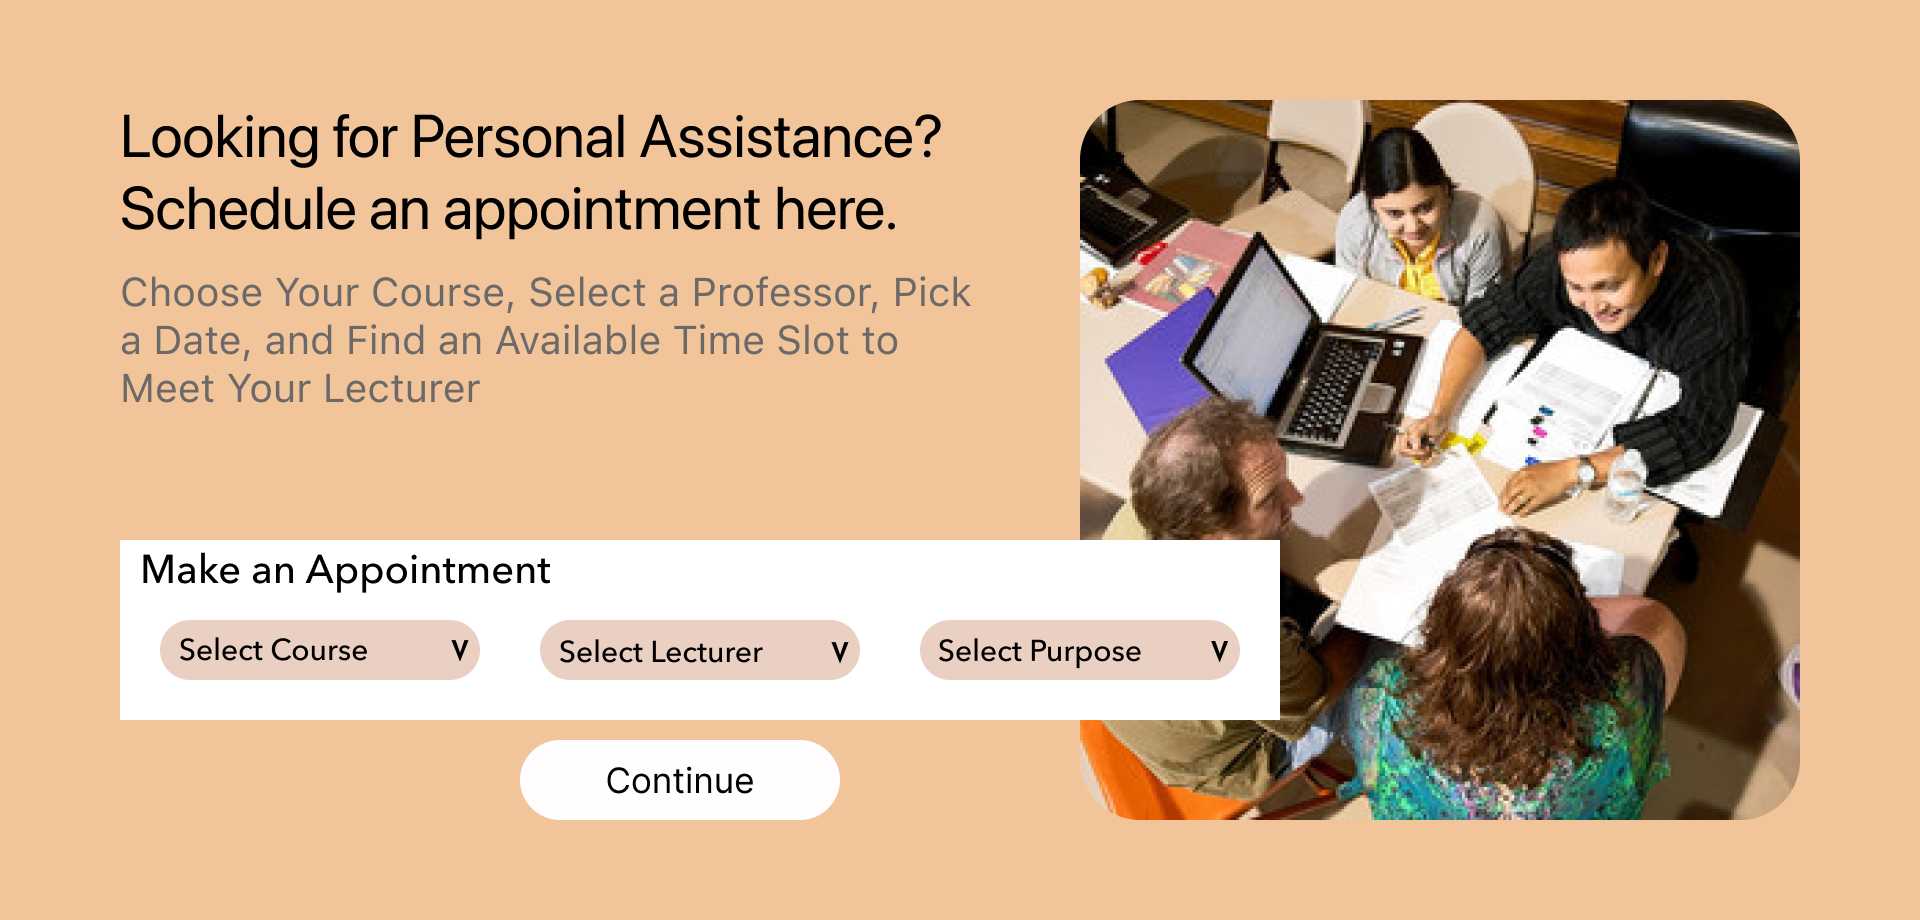
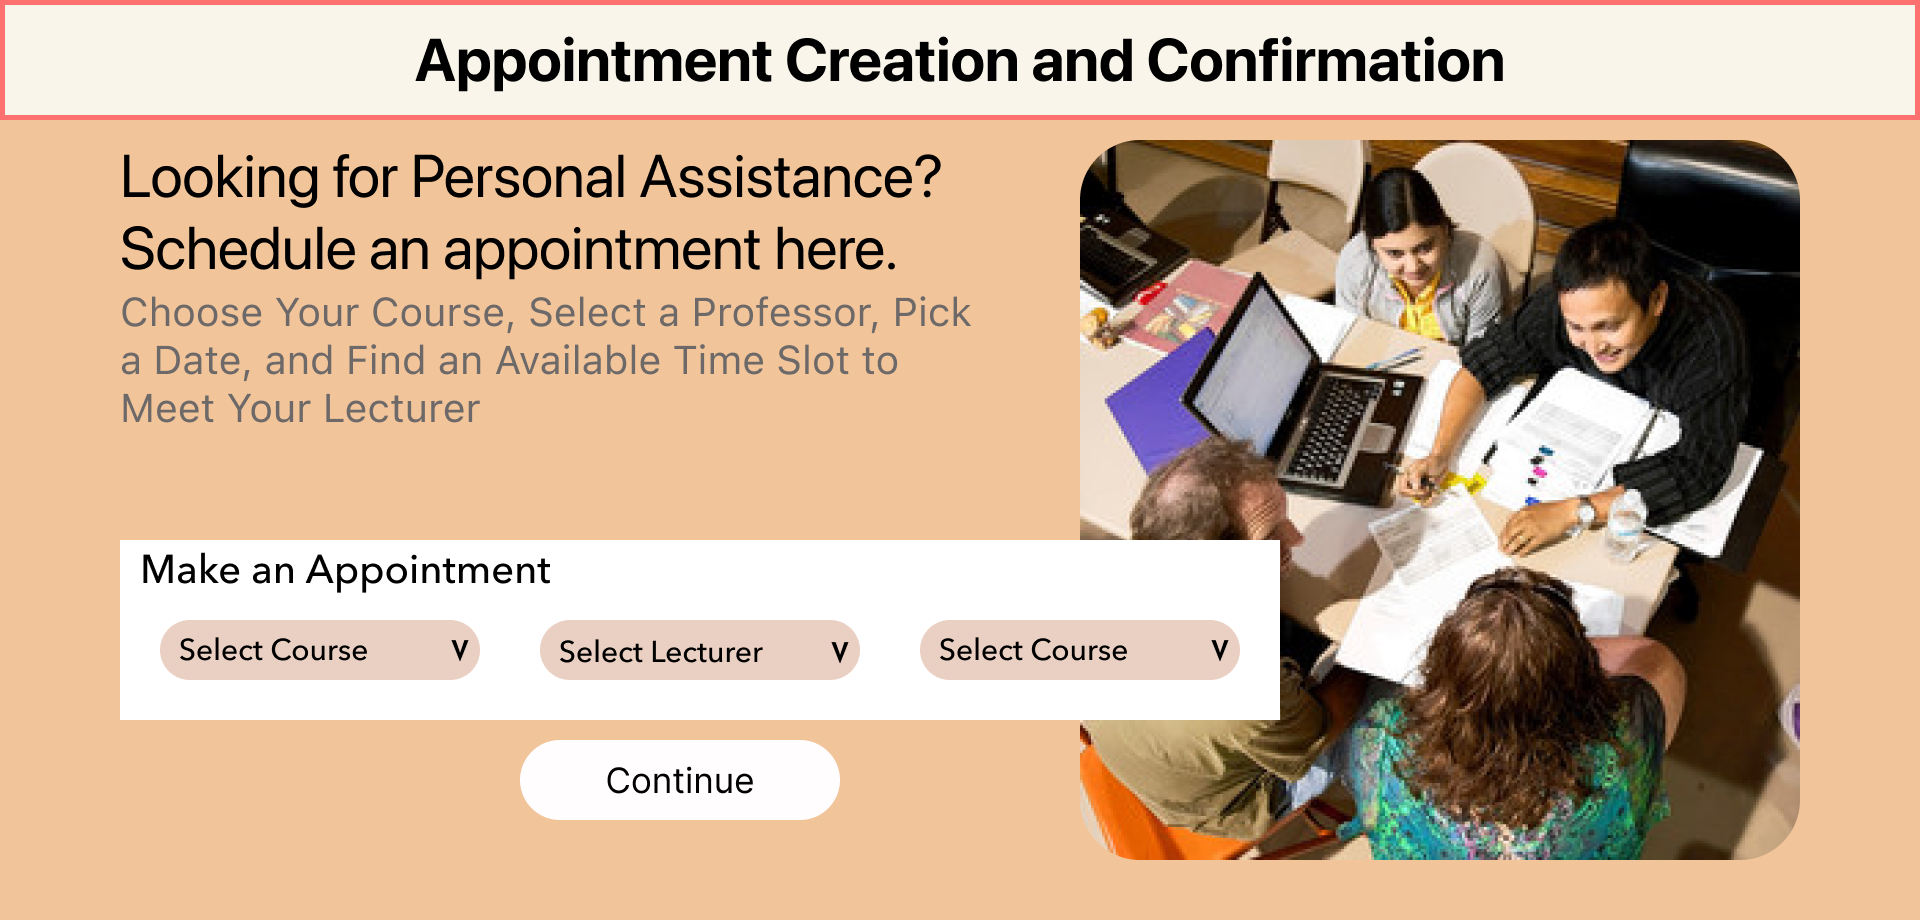
setting up appointments

diff --git a/views/appointmentsview.py b/views/appointmentsview.py
@@ -62,6 +62,10 @@ class AppointmentsView(Canvas):
             root=self, xpos=0, ypos=0, framewidth=1920, frameheight=920,
             classname="appointmentsmanage",
         )
+        self.apptCreateFrame = self.controller.frameCreator(
+            xpos=0, ypos=120, framewidth=1920, frameheight=800,
+            root=self.creationFrame, classname="apptcreateframe",
+        )
 
     def createElements(self):
         self.staticImgLabels = [
@@ -72,16 +76,18 @@ class AppointmentsView(Canvas):
             (r"Assets\AppointmentsView\appointmentcreationbg.png",
              0, 0, "appcreationbg", self.creationFrame),
             (r"Assets\AppointmentsView\appmanagebg.png",
-                0, 0, "appmanagebg", self.viewFrame),
+             0, 0, "appmanagebg", self.viewFrame),
+            (r"Assets\AppointmentsView\apptcreationframebg.png",
+             0, 0, "apptcreationframebg", self.apptCreateFrame),
         ]
         self.staticBtns = [
             (r"Assets\AppointmentsView\Create Appointment.png", 60, 600, "createappointmentbtn", self,
              lambda: self.loadAppCreation()),
             (r"Assets\AppointmentsView\manageappointments.png", 720, 600, "manageappointmentsbtn", self,
              lambda: self.loadAppView()),
-            (r"Assets\My Courses\exitbutton.png", 1840, 0, "appcreateexitbtn", self.creationFrame,
+            (r"Assets\My Courses\exitbutton.png", 1820, 20, "appcreateexitbtn", self.creationFrame,
              lambda: self.unloadAppCreation()),
-            (r"Assets\My Courses\exitbutton.png", 1840, 0, "appviewexitbtn", self.viewFrame,
+            (r"Assets\My Courses\exitbutton.png", 1820, 20, "appviewexitbtn", self.viewFrame,
              lambda: self.unloadAppView()),
         ]
         self.controller.settingsUnpacker(self.staticImgLabels, "label")
@@ -215,7 +221,7 @@ class AppointmentsView(Canvas):
     def loadLecturerMenuBtns(self, modCode):
         for widgetname, widget in self.creationFrame.children.items():
             if not widgetname.startswith("!la"):
-                if widgetname in [""]:
+                if widgetname in ["lecturersaptmenuhostfr", "timeslotmenuhostfr"]:
                     widget.grid_remove()
         # reset variables
         for var in [self.lecturer, self.timeslot]:
@@ -237,7 +243,7 @@ class AppointmentsView(Canvas):
     def loadTimeslotMenuBtns(self, modCode, lecturer):
         for widgetname, widget in self.creationFrame.children.items():
             if not widgetname.startswith("!la"):
-                if widgetname in [""]:
+                if widgetname in ["timeslotmenuhostfr"]:
                     widget.grid_remove()
         # reset variables
         for var in [self.timeslot]:
@@ -274,12 +280,13 @@ class AppointmentsView(Canvas):
             apptStgTimes = []
             for apptStg in me.module.lecturer.apptSettings:
                 day = apptStg.day
+                location = apptStg.location
                 starttime = kualalumpur.convert(
                     apptStg.startTime).strftime(humanreadable)
                 endtime = kualalumpur.convert(
                     apptStg.endTime).strftime(humanreadable)
                 # 10:00AM - 11:00AM
-                formattedTime = f"{day}, {starttime} - {endtime}"
+                formattedTime = f"{day}, {starttime} - {endtime} at {location}"
                 apptStgTimes.append(formattedTime)
                 lecturerDict[f"{lecturer}"] = apptStgTimes
             self.moduleDict[f"{me.module.moduleCode} - {me.module.moduleTitle}"] = lecturerDict
@@ -312,19 +319,30 @@ class AppointmentsView(Canvas):
 
     def loadAllAppointments(self):
         prisma = self.prisma
-
+    def loadAppDetailsFrame(self):
+        buttonsList = [
+            (r"Assets\My Courses\exituploadsview.png", 1300, 40, "exitapptcreation",
+             self.apptCreateFrame, lambda: self.unloadAppCreationDetails()),
+        ]
+        self.controller.settingsUnpacker(buttonsList, "button")
+        self.apptCreateFrame.grid()
+        self.apptCreateFrame.tkraise()
     def loadAppCreation(self):
+        self.apptCreateFrame.grid_remove()
         self.creationFrame.grid()
         self.creationFrame.tkraise()
-        self.loadAllDetailsForCreation()
+        # self.loadAllDetailsForCreation()
         btnsettings = [
             (r"Assets\AppointmentsView\continuecreationbtn.png", 520, 740, "continuecreation", self.creationFrame,
-             lambda: print("helloo"))
+             lambda: self.loadAppDetailsFrame()),
         ]
         self.controller.settingsUnpacker(btnsettings, "button")
     # loads the confirmation screen.
+
     def unloadAppCreation(self):
         self.creationFrame.grid_remove()
+    def unloadAppCreationDetails(self):
+        self.apptCreateFrame.grid_remove()
 
     def loadAppView(self):
         self.viewFrame.grid()

diff --git a/views/discussionsview.py b/views/discussionsview.py
@@ -164,6 +164,7 @@ class DiscussionsView(Canvas):
             
         self.postscrolledframe = ScrolledFrame(
             self, width=840, height=heightofframe, name="postsframescrollable", autohide=True,
+            bootstyle="rounded"
         )
 
         self.postscrolledframe.place(x=100, y=320, width=840, height=500)
